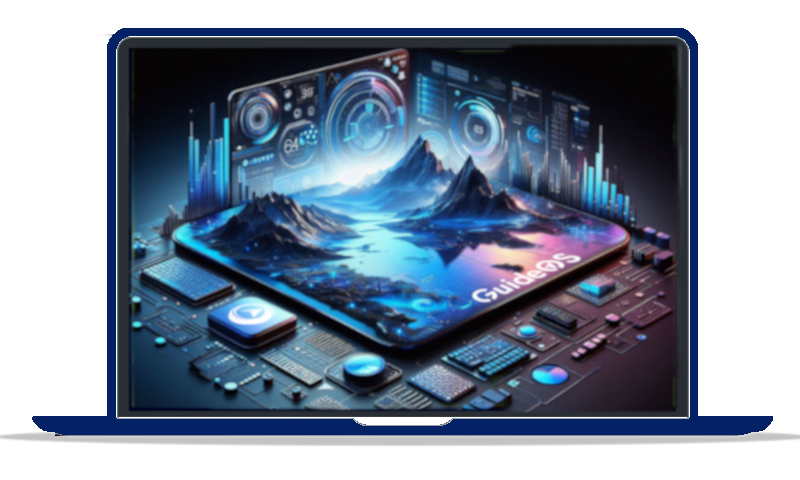
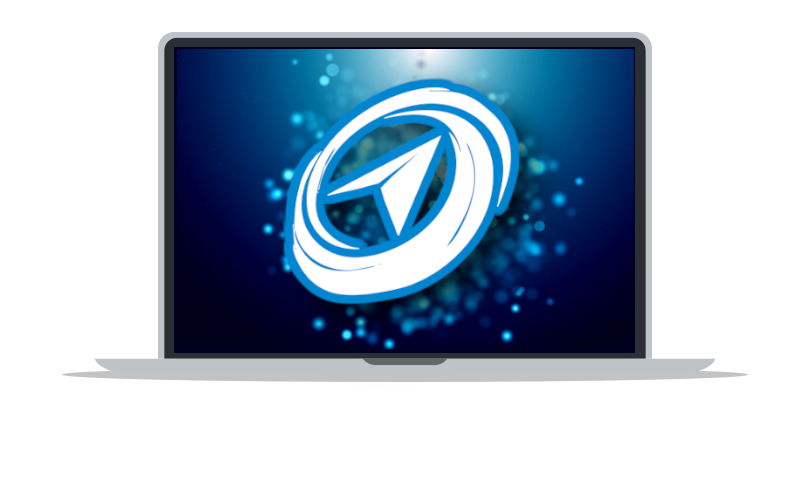
Removed Stuff

diff --git a/calamares/branding/guideos/show.qml b/calamares/branding/guideos/show.qml
@@ -24,7 +24,7 @@ Presentation
     id: presentation
 
     Timer {
-        interval: 10000
+        interval: 20000
         repeat: true
         onTriggered: presentation.goToNextSlide()
     }
@@ -38,14 +38,14 @@ Presentation
             anchors.centerIn: parent
         }
     }
+
     Slide {
         Image {
             id: background2
-            source: "FindUs.png"
+            source: "slide2.png"
             width: 467; height: 280
             fillMode: Image.PreserveAspectFit
             anchors.centerIn: parent
         }
-    }    
-
+    }
 }
